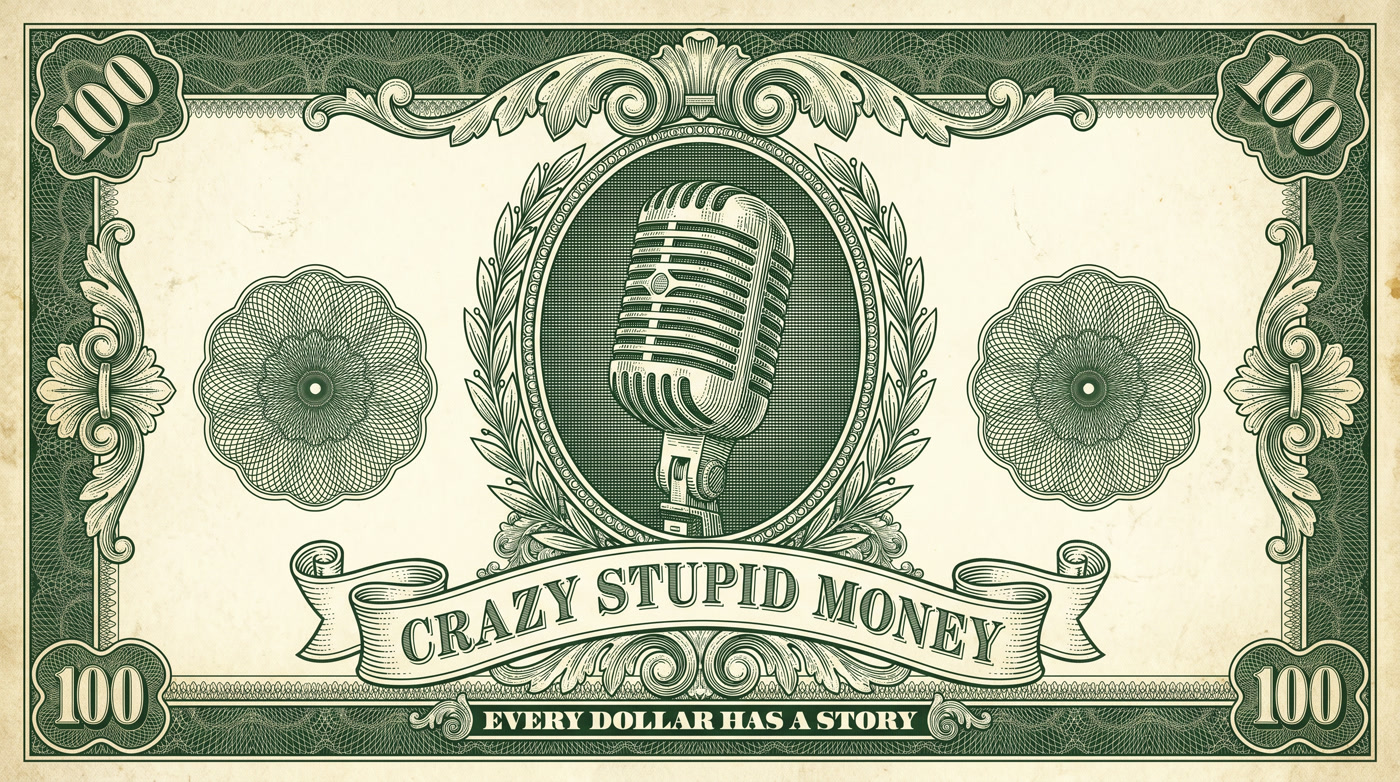
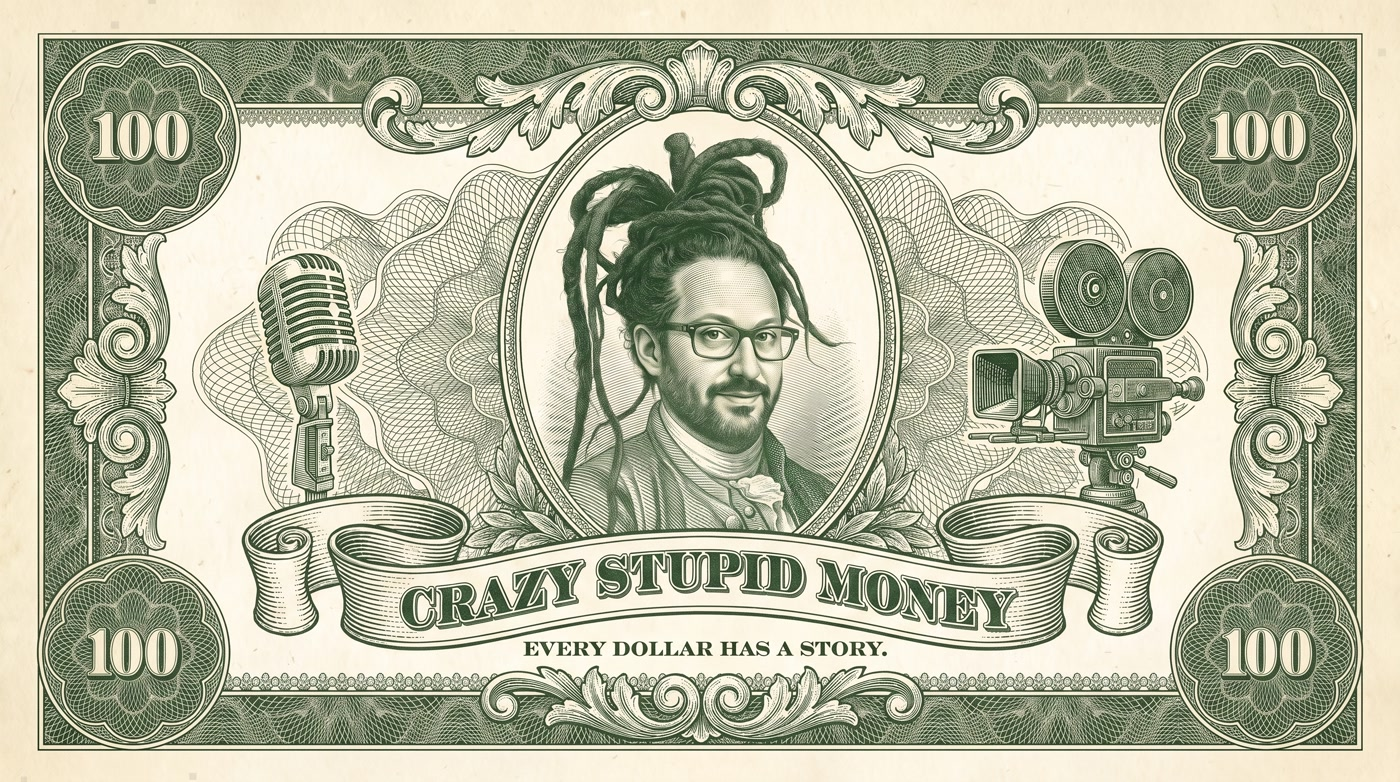
CSM card: Josh-portrait bill (colonial wardrobe) + approved owned-format copy

diff --git a/index.html b/index.html
@@ -1989,7 +1989,7 @@ footer {
           <div class="bento-hero-content">
             <span class="bento-eyebrow">Man on the Street / Money Stories</span>
             <h3>What people actually do with money</h3>
-            <p>Street interviews about the wildest things people spend money on, from Bitcoin ordinals to a midnight run for a $2 Mars bar. Multi-cam field shoots, a contract edit team, and native cuts for YouTube, TikTok, Instagram, and X. The show also works as a marketing vehicle: people bring up brands on their own when they talk about money, so a sponsor ends up inside the story instead of interrupting it.</p>
+            <p>Street interviews about the wildest things people spend money on, from Bitcoin ordinals to a midnight run for a $2 Mars bar. On paper it's a show. Functionally it's an owned media format: money stories surface brands on their own, so a partner sits inside the content people came to watch. Behind it, a full production system: multi-cam field shoots, custom AI inserts, and native cuts for every platform.</p>
             <div class="card-tags" style="margin-top: 1.25rem;">
               <span class="card-tag">Original IP</span>
               <span class="card-tag">Host + Creator</span>
